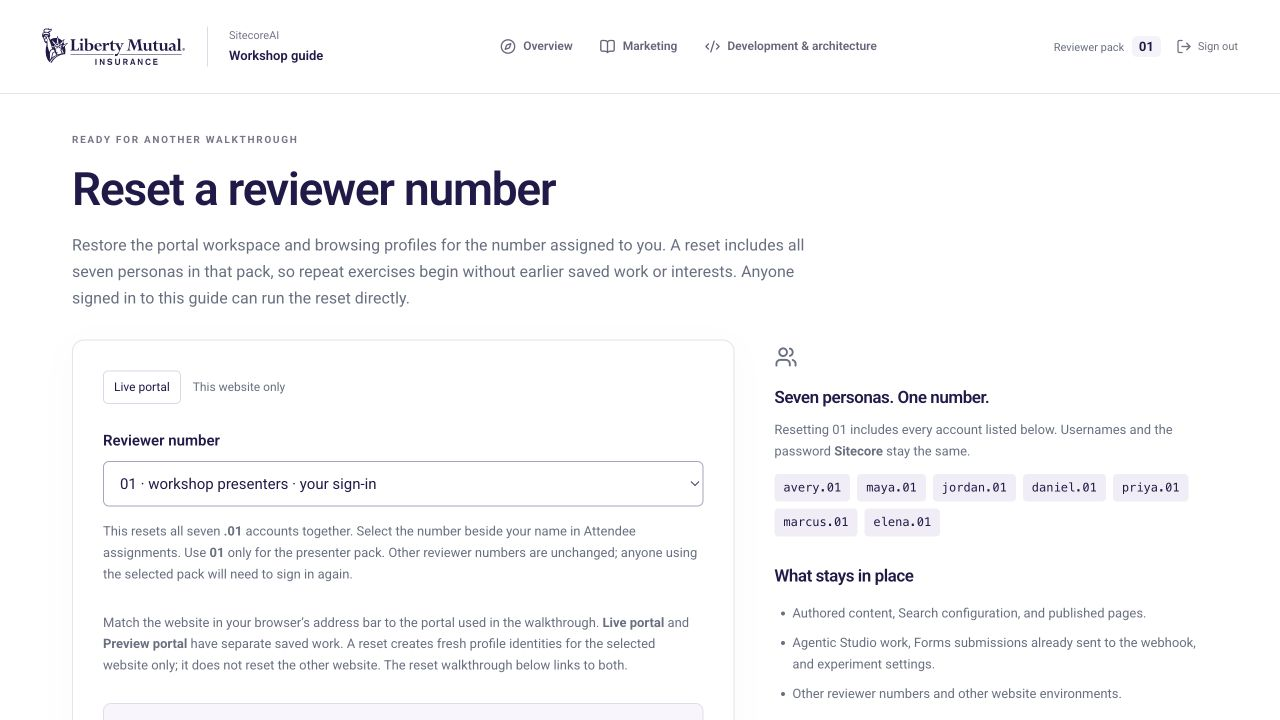
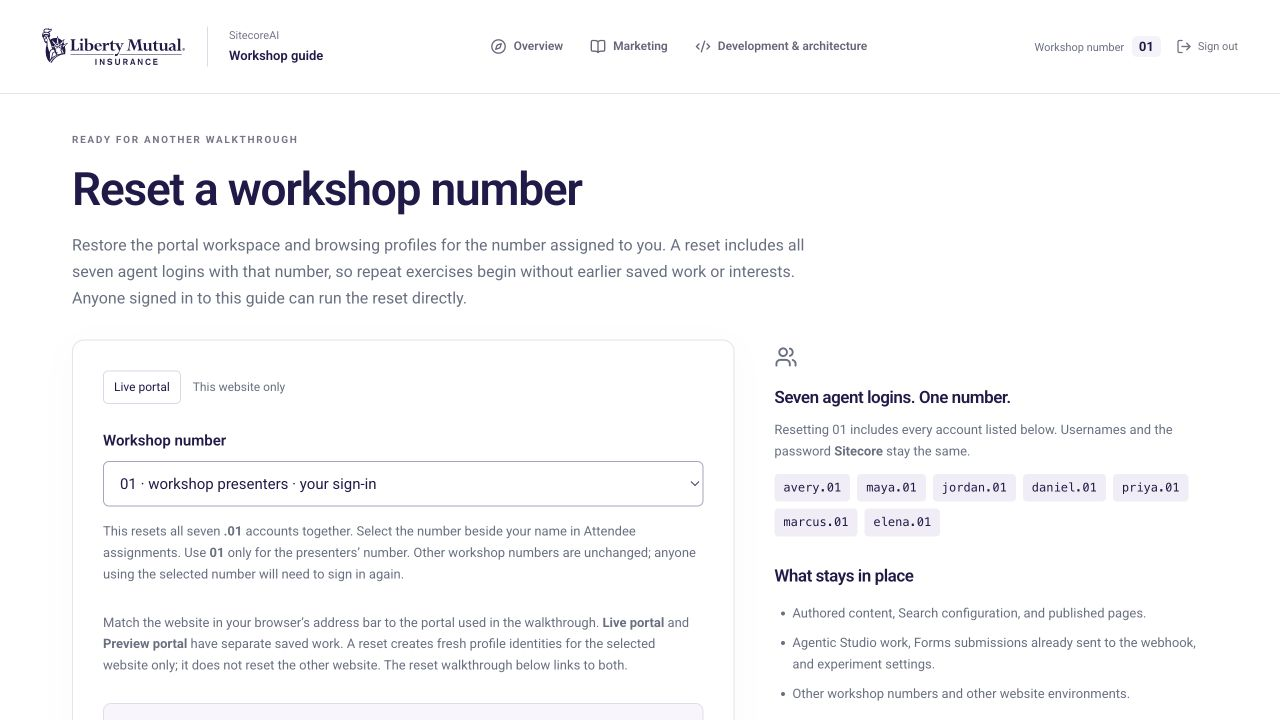
Refresh reset screenshots for workshop number labels

diff --git a/examples/liberty-mutual-agent-portal/src/features/workshops/content/portal-screenshots.ts b/examples/liberty-mutual-agent-portal/src/features/workshops/content/portal-screenshots.ts
@@ -83,7 +83,7 @@ const productSpotlight = capture(
 const workshopNumber = capture(
   "reviewer-reset-controls.png",
   "Reset page: choose your workshop number",
-  "Use the reset link for the website used in your exercise. This reference shows **Live portal** and the presenters’ **01**. The selector is now labeled **Workshop number**. Select your assigned number before resetting.",
+  "Use the reset link for the website used in your exercise. This reference shows **Live portal** and the presenters’ **01**. Choose your assigned **Workshop number** before resetting.",
   [84, 356, 634, 231],
   [
     [
@@ -187,15 +187,15 @@ const profileEngagement = capture(
 const resetActions = capture(
   "reset-action-buttons.png",
   "Reset page: start a reset or refresh its status",
-  "Below **A clean start, every time**, the dark **Reset workshop** button starts the reset for the selected number. The adjacent **Refresh status** button reads the current result without starting another reset. The reference image shows the earlier button label; the current button reads **Reset workshop** followed by the selected number.",
-  [87, 314, 632, 341],
+  "Below **A clean start, every time**, the dark **Reset workshop** button starts the reset for the selected number. The adjacent **Refresh status** button reads the current result without starting another reset. The button includes the selected number so you can check it before continuing.",
+  [87, 185, 632, 344],
   [
     [
-      [99, 539, 169, 57],
+      [99, 415, 174, 53],
       "Select **Reset workshop** only after checking the number shown on the button.",
     ],
     [
-      [272, 539, 145, 57],
+      [278, 415, 146, 53],
       "Use **Refresh status** to check progress. If **Continue reset** appears, it resumes the existing request.",
     ],
   ],
